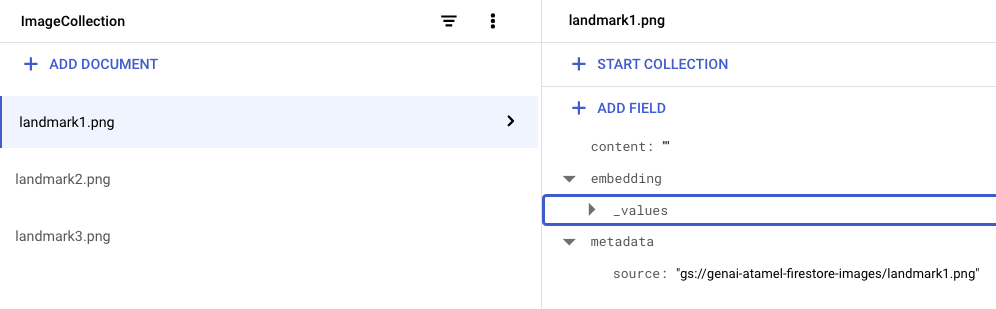
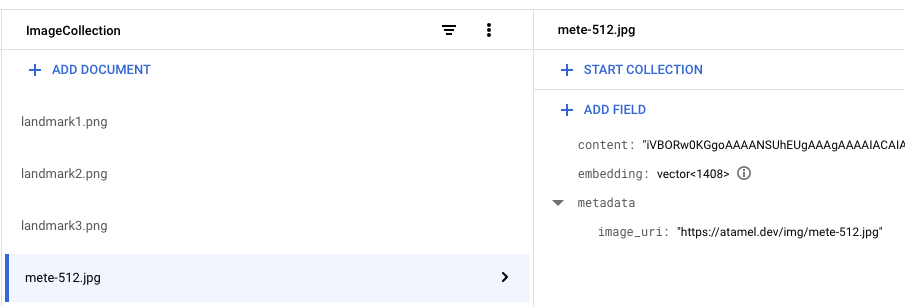
Updated instructions

diff --git a/samples/multimodal/retrievers/firestore/README.md b/samples/multimodal/retrievers/firestore/README.md
@@ -1,7 +1,7 @@
 # Multimodal image storage and retrieval with Firestore Vector Store
 
 In this sample, you'll learn how to store image embeddings to Firestore
-Vector Store and later retrieve images based on similarity search on a keyword.
+Vector Store and later retrieve images based on similarity search on a keyword or image.
 
 You can see the full sample in [main.py](main.py).
 
@@ -43,19 +43,19 @@ Add an image from a Cloud Storage url:
 python main.py --project_id=genai-atamel --image_paths gs://genai-atamel-firestore-images/landmark1.png
 ```
 
+Add other images from a local folder:
+
+```shell
+python main.py --project_id=genai-atamel --image_paths ../images/landmark2.png ../images/landmark3.png
+```
+
 Add another image from an HTTP url:
 
 ```shell
-python main.py --project_id=genai-atamel --image_paths https://storage.googleapis.com/cloud-samples-data/vertex-ai/llm/prompts/landmark2.png
+python main.py --project_id=genai-atamel --image_paths https://atamel.dev/img/mete-512.jpg
 ```
 
-Another another image from a local folder:
-
-```shell
-python main.py --project_id=genai-atamel --image_paths ../images/landmark3.png
-```
-
-At this point, you should see the tree images and their embeddings saved to Firestore:
+At this point, you should see images and their embeddings saved to Firestore:
 
 ![Firestore with images](../images/firestore_with_images.png)
 
@@ -67,6 +67,7 @@ Now, retrieve and display images with a keyword:
 python main.py --project_id=genai-atamel --search_by_keyword="stadium"
 python main.py --project_id=genai-atamel --search_by_keyword="temple"
 python main.py --project_id=genai-atamel --search_by_keyword="statue"
+python main.py --project_id=genai-atamel --search_by_keyword="man"
 ```
 
 You can also retrieve by searching similar images:
